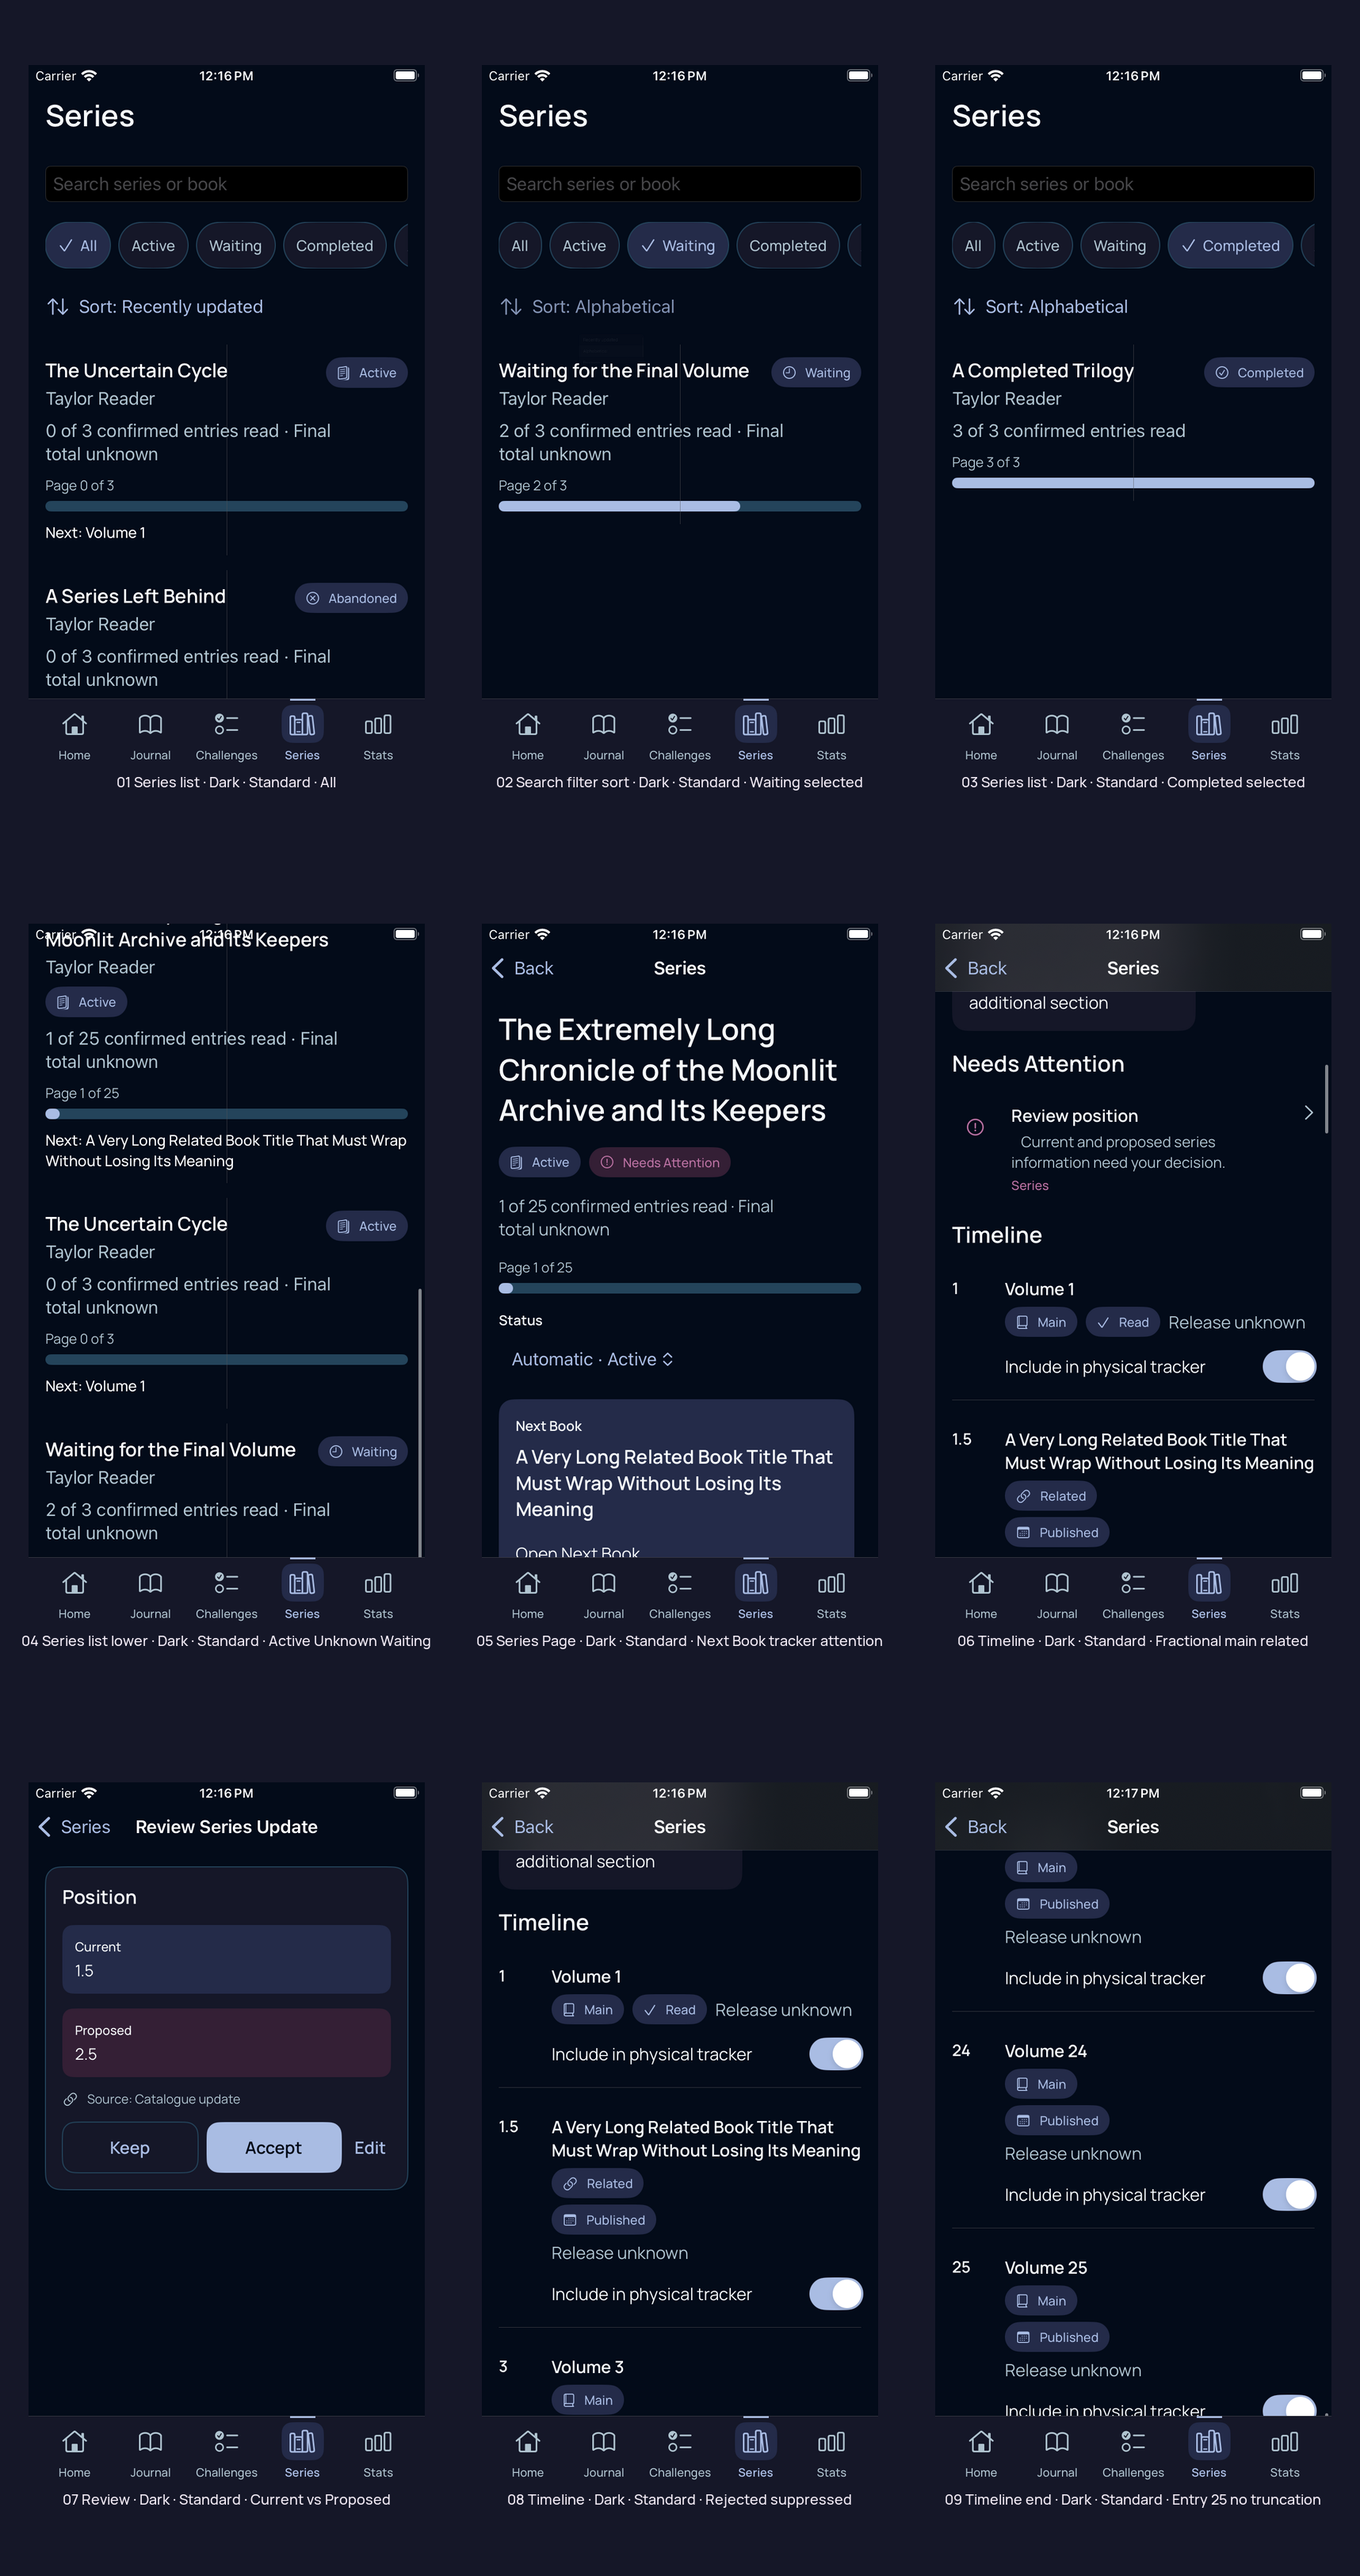
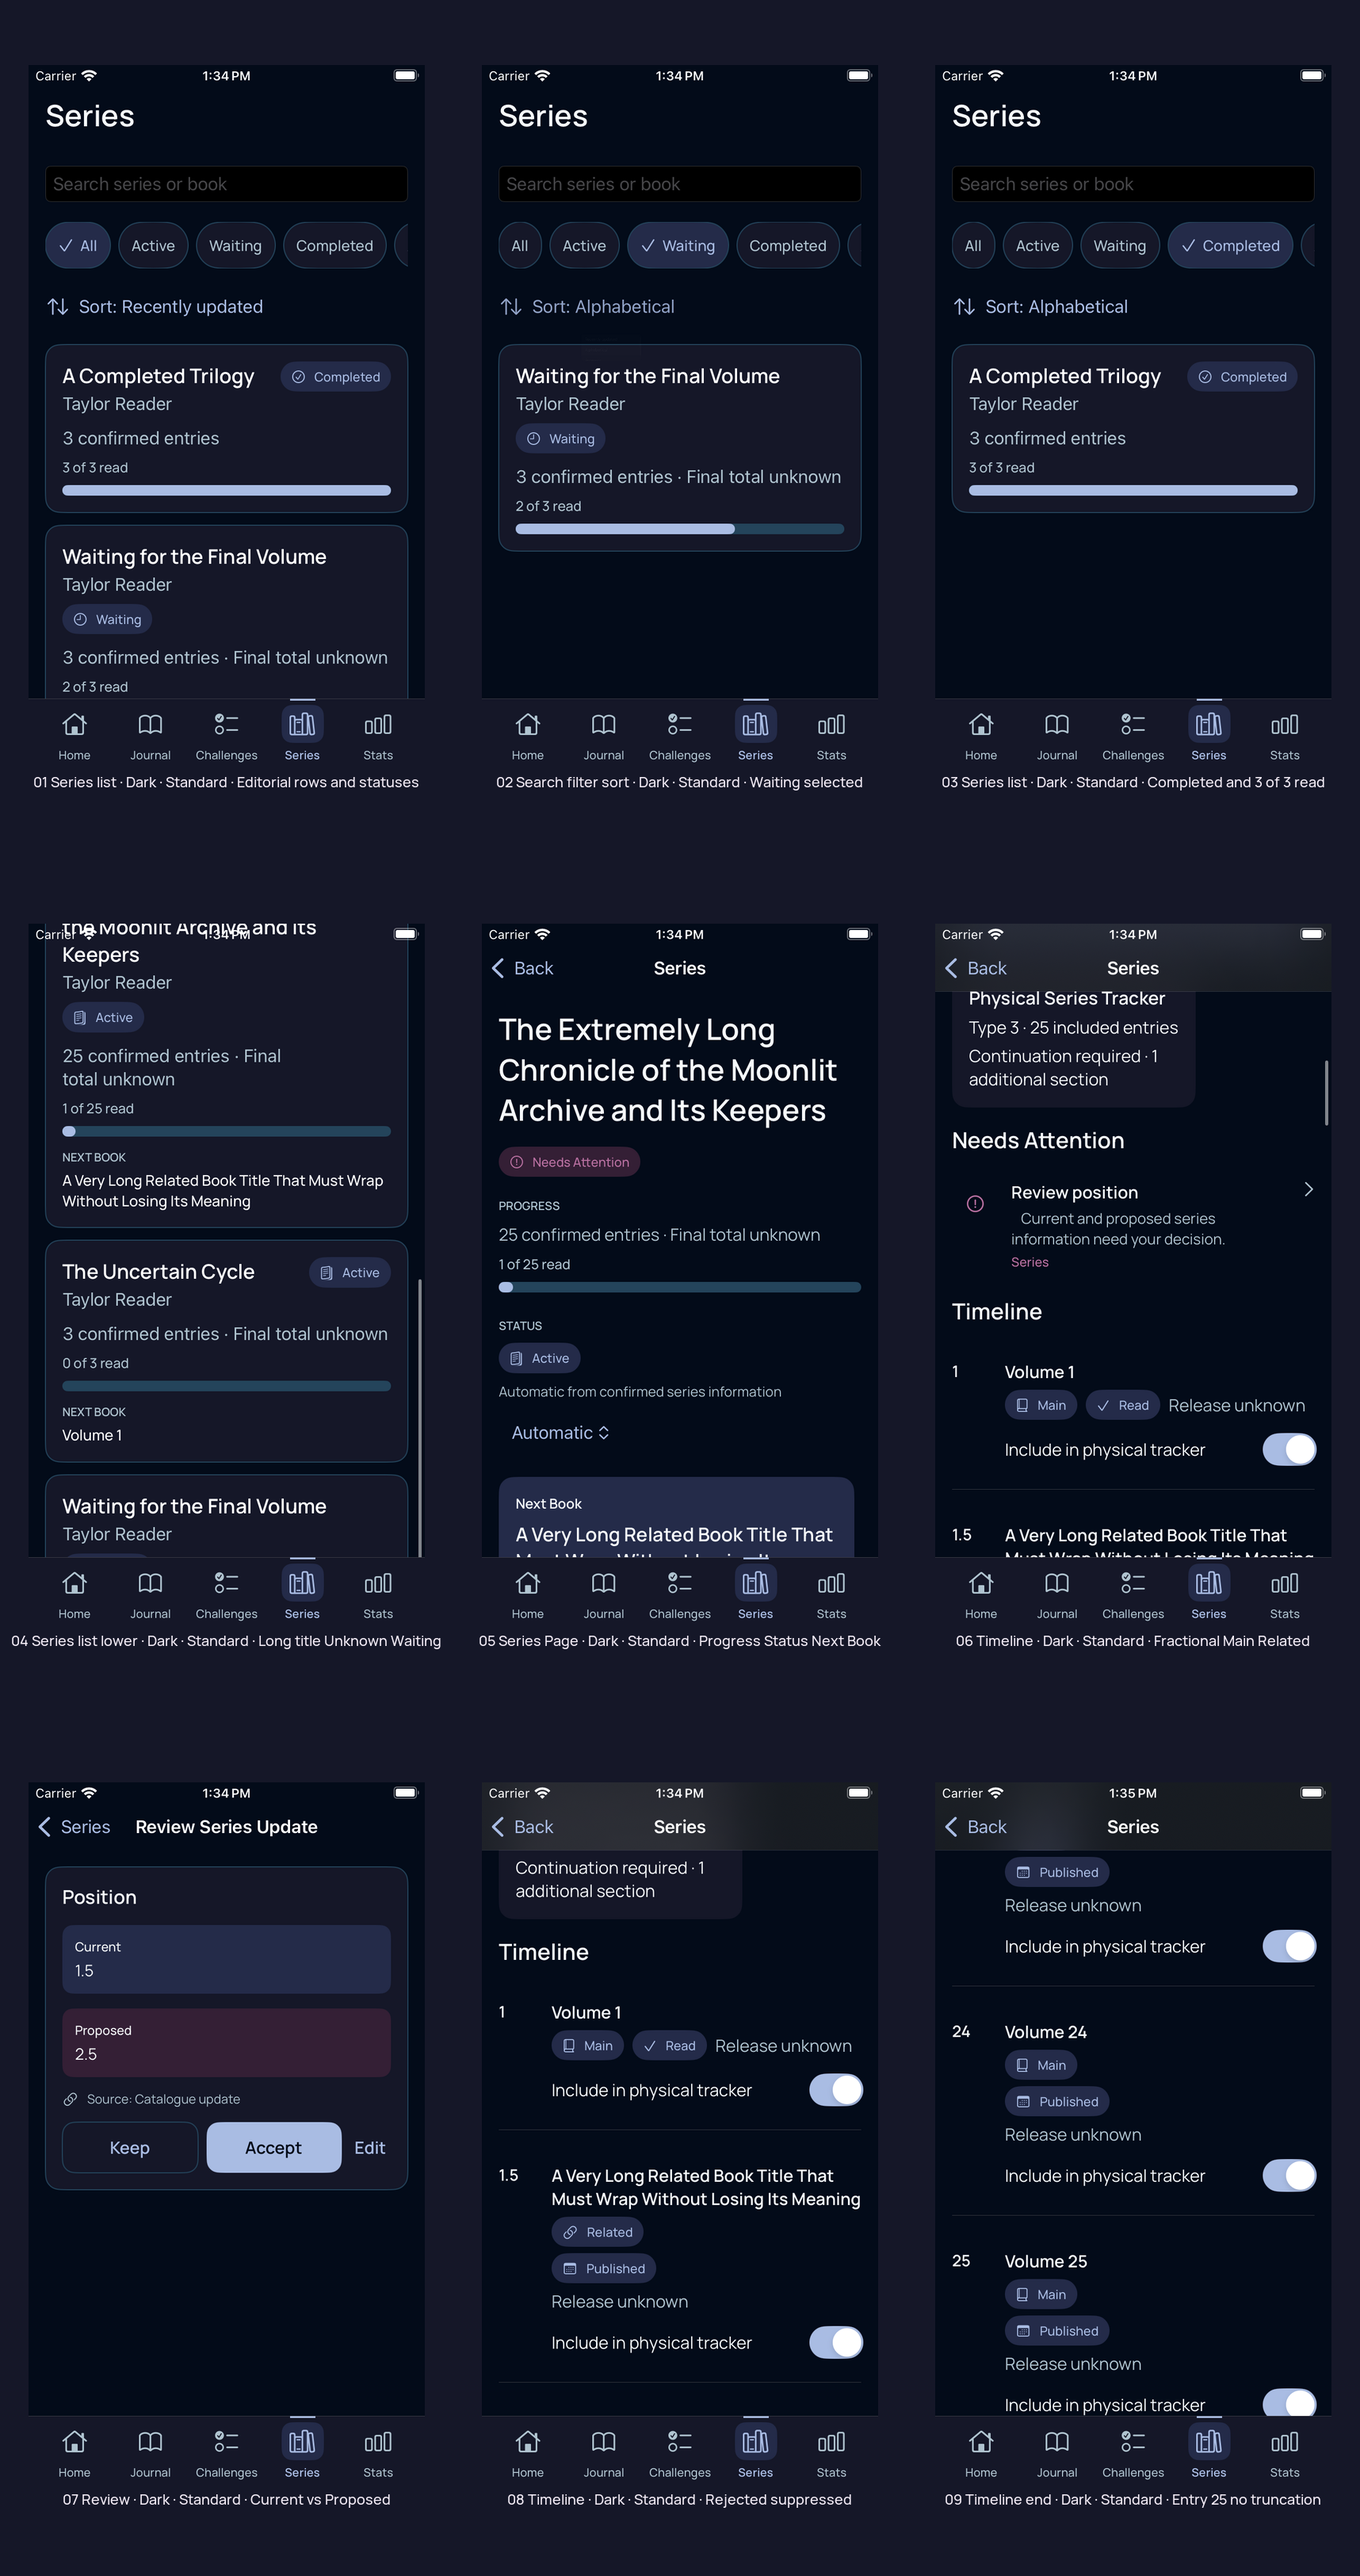
Refresh Phase 4 correction QA boards

diff --git a/docs/qa/phase-4/README.md b/docs/qa/phase-4/README.md
@@ -7,9 +7,9 @@ They use the CI-rendered compact iPhone captures from the reviewed Phase 4 branc
 
 | Board | Appearance | Dynamic Type | Representative states |
 | --- | --- | --- | --- |
-| `board-light-standard.png` | Light | Standard | list; selected/unselected status filters; alphabetical sort; long Series name; Series Page; Next Book; tracker; Needs Attention; fractional main/related timeline; Current/Proposed; rejected/suppressed; entry 25 |
-| `board-dark-standard.png` | Dark | Standard | the same primary list, page, timeline, review, suppression, and >20-entry states in the locked Dark palette |
-| `board-light-accessibility-xxxl.png` | Light | Accessibility XXXL | compact-width list and Series Page with vertical expansion, long Series names, status/progress wrapping, scrolling, and preserved type size |
+| `board-light-standard.png` | Light | Standard | revised editorial rows; `X of Y read`; selected/unselected filters; long Series name; grouped Progress/Status/Next Book; fractional timeline; Current/Proposed; entry 25 |
+| `board-dark-standard.png` | Dark | Standard | the same corrected list, page, timeline, review, and >20-entry states in the locked Dark palette |
+| `board-light-accessibility-xxxl.png` | Light | Accessibility XXXL | corrected rows and Series Page with vertical expansion, preserved type size, long names, `X of Y read`, status provenance, and scrolling |
 
 ## Required-state checklist
 
@@ -28,7 +28,8 @@ They use the CI-rendered compact iPhone captures from the reviewed Phase 4 branc
 | Next Book | Series Page panels |
 | Future release state | Waiting fixture in list plus future-entry acceptance fixture; exact/year/unknown preservation is covered by automated tests |
 | Unknown release / final total | Timeline `Release unknown` and list/page `Final total unknown` |
-| >20-entry Series | Series Page `Page 1 of 25` and Timeline End · Entry 25 panels |
+| Revised Series progress wording | List and Series Page panels: `1 of 25 read`, `2 of 3 read`, and `3 of 3 read` |
+| >20-entry Series | Series Page `1 of 25 read` and Timeline End · Entry 25 panels |
 | Physical tracker mapping | Series Page continuation summary and timeline inclusion toggles |
 | Needs Attention | Series Page / Timeline panels |
 | Current vs Proposed | Standard Current vs Proposed panels |
@@ -42,3 +43,11 @@ They use the CI-rendered compact iPhone captures from the reviewed Phase 4 branc
 The complete original screenshots and XCTest result bundle are retained by CI in
 the `phase-4-series-visual-qa` artifact. The historical Foundation accessibility
 audit remains separate, visible, and unsuppressed.
+
+## Correction-pass decision
+
+The displayed fraction is digital Series-entry progress, not a reading page and
+not a physical Journal page. The correction therefore uses `X of Y read` beside
+`Y confirmed entries`. Physical tracker page capacity remains confined to the
+separately labelled Physical Series Tracker section. The underlying counts and
+tracker mapping are unchanged.

diff --git a/docs/PHASE_4_STATUS.md b/docs/PHASE_4_STATUS.md
@@ -100,6 +100,35 @@ the rejected/suppressed result. CI also retains the original captures in the
 `phase-4-series-visual-qa` artifact. These are review materials; human visual
 approval is not claimed.
 
+### Focused visual correction pass
+
+Following functional approval and the first human visual review, the Series list
+now uses restrained editorial surfaces, subtle borders, clearer vertical spacing,
+and grouped progress/Next Book information. It remains typographic and contains
+no Series artwork. The Series Page now presents conceptual PROGRESS and STATUS
+groups before the existing dedicated NEXT BOOK treatment. Effective status is the
+primary status value; automatic derivation or user override is secondary
+provenance. Timeline rows retain their exact decimal positions and metadata while
+using increased spacing and separators to clarify each semantic unit. The shared
+Current/Proposed review direction is unchanged, as are all approved colors and
+Dynamic Type sizes.
+
+The former `Page X of Y` label came from reusing the Book reading-progress
+component, but the values are counts of read confirmed Series entries. They are
+not physical Journal pages: physical page capacity belongs only to the separately
+labelled Series Tracker mapping. Phase 4 now uses a Series-specific progress bar
+with reader-facing `X of Y read` wording and a `Series progress` accessibility
+label. The count calculation, confirmed-total rules, and tracker mapping are
+unchanged.
+
+Correction-pass CI run `37316284598` passes Swift tests, iOS build, SQLite,
+Supabase/RLS, Journal regression, Books Core regression, and the Phase 4 Series
+acceptance/capture stage. The test explicitly verifies `1 of 25 read`. Updated
+Light Standard, Dark Standard, and Accessibility XXXL boards were inspected and
+replace the earlier boards in `docs/qa/phase-4/`. The remaining red Foundation
+audit stages are intentionally unfiltered historical findings; their thresholds
+and reporting are unchanged.
+
 ## Known limits, genuine TBDs, and accessibility
 
 - Provider-specific production Series ingestion and ambiguous cross-provider
